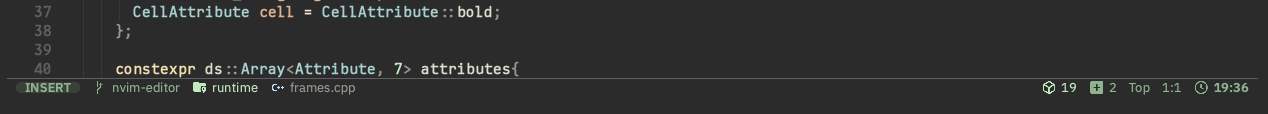
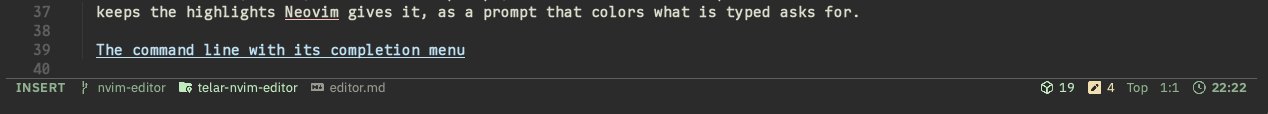
Draw the native status line flat, without pills
A status line is one cell high, so a shape around a word leaves no room
above or below its letters. The sections a statusline draws on
backgrounds of their own now keep only their color: each word takes
whichever of its color and its section's background stands apart from
the line's, and the mode's name is written in the theme's color for the
mode.

diff --git a/src/gui/ui/app/panes/nvim/NvimStatusLine.qml b/src/gui/ui/app/panes/nvim/NvimStatusLine.qml
@@ -5,15 +5,16 @@ import Telar.Gui
 
 // The status line of the whole editor, drawn by telar over the row Neovim draws it on: what the
 // configuration puts there, lualine's or any other, in telar's type and on the editor's own
-// surface. The cells on a background of their own become pills of that color, as lualine's
-// sections are; the icons are drawn with the bundled symbols; the two sides keep the gap Neovim
-// put between them. A line that opens with the name of the mode Neovim is in shows it as the
-// mode's pill, in the theme's color for that mode, unless the line gives it a color of its own.
+// surface. The line is flat: a row of one cell has no room for a shape around a word, so the
+// sections a statusline draws on backgrounds of their own keep only their color and are parted
+// by space; the icons are drawn with the bundled symbols, and the two sides keep the gap Neovim
+// put between them. A line that opens with the name of the mode Neovim is in writes it in the
+// theme's color for that mode.
 Item {
     id: root
 
     // {visible, row, tokens [{text, color, bold, italic, icon, gap}], left and right
-    // [{first, count, background, pill}]}.
+    // [{first, count}]}.
     required property var status
     // Neovim's name for its mode: "normal", "insert", "visual", "cmdline_normal"...
     property string mode
@@ -22,7 +23,9 @@ Item {
     required property real cellHeight
     property real ratio: 1
     readonly property var tokens: status.tokens ?? []
-    readonly property real gap: 6 * ratio
+    // Between the line's edges and its words, and between two of its sections.
+    readonly property real margin: 10 * ratio
+    readonly property real sectionGap: 14 * ratio
     // The first letter of the names statuslines give each mode, and the theme's color for it.
     readonly property var family: ({
             "normal": ["N", colors.accent],
@@ -37,13 +40,13 @@ Item {
             "terminal": ["T", colors.teal]
         })
     readonly property var modeFamily: family[mode] ?? null
-    // The token that names the mode: the line's first, in capitals, of the mode's letter, on the
-    // line's own background; -1 for none.
+    // The token that names the mode: the line's first, in capitals, of the mode's letter; -1 for
+    // none.
     readonly property int modeToken: {
         const first = (status.left ?? [])[0];
         const token = tokens[0];
 
-        if (!modeFamily || !first || first.pill || first.first !== 0 || !token || token.icon)
+        if (!modeFamily || !first || first.first !== 0 || !token || token.icon)
             return -1;
         return /^[A-Z][A-Z-]{1,11}$/.test(token.text) && token.text[0] === modeFamily[0] ? 0 : -1;
     }
@@ -66,89 +69,60 @@ Item {
         color: root.colors.border
     }
 
-    component Piece: Item {
+    component Piece: Row {
         id: piece
 
         required property var record
-        readonly property bool pill: record.pill ?? false
-        readonly property real padding: (pill ? 9 : 3) * root.ratio
 
-        width: words.implicitWidth + 2 * padding
         height: root.height
 
-        NativeRoundedRectangle {
-            visible: piece.pill
-            y: Math.round((root.height - height) / 2)
-            width: parent.width
-            height: Math.min(root.height - 8 * root.ratio, Math.round(root.typography.small * 1.85))
-            radius: ChromeStyle.controlRadius * root.ratio
-            color: (piece.record.background ?? "").length > 0 ? piece.record.background : Qt.alpha(root.colors.text, ChromeStyle.selectionAlpha)
-        }
+        Repeater {
+            // A count, so a word that changes keeps its item and only its text is set again.
+            model: piece.record.count ?? 0
 
-        Row {
-            id: words
-            x: piece.padding
-            height: root.height
+            delegate: Item {
+                id: word
 
-            Repeater {
-                // A count, so a word that changes keeps its item and only its text is set again.
-                model: piece.record.count ?? 0
+                required property int index
+                readonly property int at: piece.record.first + index
+                readonly property var token: root.tokens[at] ?? ({})
+                readonly property bool icon: token.icon ?? false
+                readonly property bool moded: at === root.modeToken
+                readonly property color tint: moded ? root.modeFamily[1] : (token.color ?? "").length > 0 ? token.color : root.colors.text
+                // An icon goes with the word after it; words Neovim parted by more than one
+                // blank cell are parted more.
+                readonly property bool afterIcon: index > 0 && (root.tokens[at - 1]?.icon ?? false)
+                readonly property int blanks: index > 0 ? token.gap ?? 0 : 0
+                readonly property real lead: (blanks === 0 ? 0 : afterIcon ? 5 : blanks === 1 ? 5 : 12) * root.ratio
 
-                delegate: Item {
-                    id: word
+                width: lead + (icon ? glyph.width : label.implicitWidth)
+                height: root.height
 
-                    required property int index
-                    readonly property int at: piece.record.first + index
-                    readonly property var token: root.tokens[at] ?? ({})
-                    readonly property bool icon: token.icon ?? false
-                    readonly property bool moded: at === root.modeToken
-                    readonly property color tint: moded ? root.modeFamily[1] : (token.color ?? "").length > 0 ? token.color : root.colors.text
-                    // An icon goes with the word after it; words Neovim parted by more than one
-                    // blank cell are parted more.
-                    readonly property bool afterIcon: index > 0 && (root.tokens[at - 1]?.icon ?? false)
-                    readonly property int blanks: index > 0 ? token.gap ?? 0 : 0
-                    readonly property real lead: (blanks === 0 ? 0 : afterIcon ? 5 : blanks === 1 ? 5 : 12) * root.ratio
-                    readonly property real inset: moded ? 9 * root.ratio : 0
+                ChromeIcon {
+                    id: glyph
+                    visible: word.icon
+                    x: word.lead
+                    y: Math.round((root.height - height) / 2)
+                    width: visible ? Math.round(root.typography.small * 1.15) : 0
+                    height: width
+                    glyph: word.icon ? word.token.text : ""
+                    pixelSize: width
+                    color: word.tint
+                }
 
-                    width: lead + (icon ? glyph.width : label.implicitWidth + 2 * inset)
+                Text {
+                    id: label
+                    visible: !word.icon
+                    x: word.lead
                     height: root.height
-
-                    // The mode's pill, when the line gives the mode no color of its own.
-                    NativeRoundedRectangle {
-                        visible: word.moded
-                        x: word.lead
-                        y: Math.round((root.height - height) / 2)
-                        width: label.implicitWidth + 2 * word.inset
-                        height: Math.min(root.height - 8 * root.ratio, Math.round(root.typography.small * 1.85))
-                        radius: ChromeStyle.controlRadius * root.ratio
-                        color: Qt.alpha(word.tint, 0.16)
-                    }
-
-                    ChromeIcon {
-                        id: glyph
-                        visible: word.icon
-                        x: word.lead
-                        y: Math.round((root.height - height) / 2)
-                        width: visible ? Math.round(root.typography.small * 1.15) : 0
-                        height: width
-                        glyph: word.icon ? word.token.text : ""
-                        pixelSize: width
-                        color: word.tint
-                    }
-
-                    Text {
-                        id: label
-                        visible: !word.icon
-                        x: word.lead + word.inset
-                        height: root.height
-                        verticalAlignment: Text.AlignVCenter
-                        text: word.icon ? "" : word.token.text ?? ""
-                        color: word.tint
-                        font.pixelSize: root.typography.small
-                        font.bold: word.moded || (word.token.bold ?? false)
-                        font.italic: word.token.italic ?? false
-                        textFormat: Text.PlainText
-                    }
+                    verticalAlignment: Text.AlignVCenter
+                    text: word.icon ? "" : word.token.text ?? ""
+                    color: word.tint
+                    font.pixelSize: root.typography.small
+                    font.weight: word.moded ? Font.DemiBold : (word.token.bold ?? false) ? Font.Bold : Font.Normal
+                    font.italic: word.token.italic ?? false
+                    font.letterSpacing: word.moded ? 0.6 * root.ratio : 0
+                    textFormat: Text.PlainText
                 }
             }
         }
@@ -158,9 +132,9 @@ Item {
     Row {
         id: trailing
         objectName: "editorStatusRight"
-        x: parent.width - width - root.gap
+        x: parent.width - width - root.margin
         height: root.height
-        spacing: root.gap
+        spacing: root.sectionGap
 
         Repeater {
             model: (root.status.right ?? []).length
@@ -174,15 +148,15 @@ Item {
 
     // The first side, cut where it would run under the other.
     Item {
-        x: root.gap
-        width: Math.max(0, trailing.x - x - root.gap)
+        x: root.margin
+        width: Math.max(0, trailing.x - x - root.sectionGap)
         height: root.height
         clip: true
 
         Row {
             objectName: "editorStatusLeft"
             height: root.height
-            spacing: root.gap
+            spacing: root.sectionGap
 
             Repeater {
                 model: (root.status.left ?? []).length

diff --git a/src/gui/tests/quick_test.cpp b/src/gui/tests/quick_test.cpp
@@ -1170,9 +1170,9 @@ return {api_version = 2, client = {
       QVERIFY(view->separators().first().toMap().value(QStringLiteral("vertical")).toBool());
       shoot(QStringLiteral("editor-split"));
 
-      // The status line of the whole editor is drawn natively over its row: the cells on a
-      // background of their own are pills of that color, an icon of the Nerd Fonts is drawn as
-      // one, and the two sides keep the gap Neovim put between them.
+      // The status line of the whole editor is drawn natively over its row, flat: the cells on a
+      // background of their own are a section of their own, an icon of the Nerd Fonts is drawn
+      // as one, and the two sides keep the gap Neovim put between them.
       view->send(QStringLiteral("<Cmd>lua vim.o.statusline = '%#Visual# NORMAL %#StatusLine# ' .. vim.fn.nr2char(0xe0a0) .. ' main %=%#PmenuSel# %l:%c '; vim.o.laststatus = 3<CR>"));
       const auto status = [&] {
         return view->statusLine();
@@ -1194,20 +1194,20 @@ return {api_version = 2, client = {
       }
 
       QVERIFY2(drawn.contains(QStringLiteral(" main ")), qPrintable(drawn));
-      QVERIFY(piece(QStringLiteral("left"), 0).value(QStringLiteral("pill")).toBool());
-      QVERIFY(!piece(QStringLiteral("left"), 1).value(QStringLiteral("pill")).toBool());
+      QCOMPARE(status().value(QStringLiteral("left")).toList().size(), 2);
+      QCOMPARE(piece(QStringLiteral("left"), 0).value(QStringLiteral("count")).toInt(), 1);
       QVERIFY(token(piece(QStringLiteral("left"), 1).value(QStringLiteral("first")).toInt()).value(QStringLiteral("icon")).toBool());
-      QVERIFY(piece(QStringLiteral("right"), 0).value(QStringLiteral("pill")).toBool());
       QVERIFY(QRegularExpression{QStringLiteral("^\\d+:\\d+$")}.match(token(piece(QStringLiteral("right"), 0).value(QStringLiteral("first")).toInt()).value(QStringLiteral("text")).toString()).hasMatch());
       shoot(QStringLiteral("editor-status"));
 
-      // A line that gives the mode no color of its own shows it as the mode's pill.
+      // A line that opens with the name of the mode writes it in the theme's color for the mode,
+      // and one that opens with something else names no mode.
       const auto lines = test::visualItems(*window_->contentItem(), QStringLiteral("editorStatusLine"));
 
       QCOMPARE(lines.size(), std::size_t{1});
-      QCOMPARE(lines.front()->property("modeToken").toInt(), -1);
-      view->send(QStringLiteral("<Cmd>lua vim.o.statusline = ' NORMAL  main %= %l:%c '<CR>"));
       QTRY_COMPARE_WITH_TIMEOUT(lines.front()->property("modeToken").toInt(), 0, runtime_wait_ms);
+      view->send(QStringLiteral("<Cmd>lua vim.o.statusline = ' main %= NORMAL %l:%c '<CR>"));
+      QTRY_COMPARE_WITH_TIMEOUT(lines.front()->property("modeToken").toInt(), -1, runtime_wait_ms);
       view->send(QStringLiteral("<Cmd>set laststatus& statusline&<CR>"));
       QTRY_VERIFY_WITH_TIMEOUT(!status().value(QStringLiteral("visible")).toBool(), runtime_wait_ms);
 

diff --git a/src/gui/features/nvim/nvim.cpp b/src/gui/features/nvim/nvim.cpp
@@ -340,6 +340,35 @@ namespace telar::gui::features::nvim {
       return (style.flags & std::to_underlying(CellAttribute::inverse)) != 0 ? style.foreground : style.background;
     }
 
+    // How far apart two colors are, as the squared distance of their channels.
+    std::uint32_t apart(const CellColor& one, const CellColor& other) noexcept {
+      std::uint32_t distance = 0;
+
+      for (std::size_t channel = 0; channel < one.channels.size(); ++channel) {
+        const auto step = static_cast<int>(one.channels[channel]) - static_cast<int>(other.channels[channel]);
+
+        distance += static_cast<std::uint32_t>(step * step);
+      }
+
+      return distance;
+    }
+
+    // The color a word keeps on the line's own background: its own, or the background it was
+    // drawn on when that stands apart from the line's more. Colors Neovim leaves to the window
+    // are not compared, and the word keeps its own.
+    CellColor inkOf(const CellStyle& style, const ds::Option<CellColor>& own, const CellColor& base) noexcept {
+      const auto& ink = (style.flags & std::to_underlying(CellAttribute::inverse)) != 0 ? style.background : style.foreground;
+      const auto known = [](const CellColor& color) {
+        return color.kind == CellColor::Kind::rgb;
+      };
+
+      if (!own || !known(ink) || !known(*own) || !known(base)) {
+        return ink;
+      }
+
+      return apart(*own, base) > apart(ink, base) ? *own : ink;
+    }
+
     bool blank(const CellValue& cell) noexcept {
       const auto text = cell.utf8();
 
@@ -367,7 +396,7 @@ namespace telar::gui::features::nvim {
 
     // Puts a cell in the last piece: with the word before it when nothing parts them and they
     // share a style, as a word of its own otherwise, and an icon always on its own.
-    void addWord(StatusLine& line, const CellValue& cell, std::uint8_t gap) {
+    void addWord(StatusLine& line, const CellValue& cell, std::uint8_t gap, const CellColor& base) {
       auto& piece = line.pieces.backMut();
       const auto text = cell.utf8();
       const bool icon = symbol(text);
@@ -379,7 +408,7 @@ namespace telar::gui::features::nvim {
         return;
       }
 
-      line.tokens.push({.text = {.offset = offset, .size = static_cast<std::uint32_t>(text.size())}, .style = cell.style, .icon = icon, .gap = gap});
+      line.tokens.push({.text = {.offset = offset, .size = static_cast<std::uint32_t>(text.size())}, .style = cell.style, .ink = inkOf(cell.style, piece.background, base), .icon = icon, .gap = gap});
       ++piece.count;
     }
 
@@ -451,7 +480,7 @@ namespace telar::gui::features::nvim {
         gap = 0;
       }
 
-      addWord(line, cell, gap);
+      addWord(line, cell, gap, base);
       gap = 0;
     }
   }

diff --git a/src/gui/features/nvim/tests/nvim_test.cpp b/src/gui/features/nvim/tests/nvim_test.cpp
@@ -320,6 +320,12 @@ namespace {
     check(line.tokens[3].icon && tokenText(line, 4) == "src/" && line.tokens[4].gap == 2 && tokenText(line, 5) == "main.cpp" && line.tokens[5].gap == 0, "words in two styles side by side stay two, with no gap between");
     check(line.pieces[3].right && line.pieces[3].background && tokenText(line, line.pieces[3].first) == "1:1", "what follows the gap is the right side");
 
+    // The line is drawn flat: a word keeps whichever of its color and its background stands
+    // apart from the line's.
+    check(line.tokens[0].ink == mode.background, "dark letters on the mode's color are written in the mode's color");
+    check(line.tokens[2].ink == branch.foreground, "light letters on a background near the line's keep their own color");
+    check(line.tokens[4].ink == line_style.foreground, "and a word on the line's own background keeps its own");
+
     // Neovim's own status line reverses its colors: what it is drawn on is its foreground.
     const CellStyle reversed{.flags = std::to_underlying(CellAttribute::inverse), .foreground = rgb(40, 40, 40), .background = rgb(220, 220, 220)};
 
@@ -328,6 +334,16 @@ namespace {
     readStatusLine(row, line);
     check(line.pieces.size() == 2 && !line.pieces[0].background && !line.pieces[1].background && line.pieces[1].right, "a line all on one background is words on the line's own");
     check(tokenText(line, 0) == "file.txt" && tokenText(line, 1) == "[+]" && line.tokens[1].gap == 1 && tokenText(line, line.pieces[1].first) == "10,1");
+    check(line.tokens[0].ink == reversed.background, "a reversed word is written in its background");
+
+    // A color Neovim leaves to the window cannot be compared, and the word keeps its own.
+    const CellStyle unset{.background = rgb(130, 170, 255)};
+
+    row.clear();
+    paint(row, "                ", line_style);
+    paint(row, " VISUAL ", unset);
+    readStatusLine(row, line);
+    check(line.tokens.size() == 1 && line.tokens[0].ink == CellColor{}, "a word in the window's own color keeps it");
   }
 
   // A frame says on which row of the default grid the status line of the whole editor is.

diff --git a/src/gui/ui/app/panes/nvim/nvim_item.cpp b/src/gui/ui/app/panes/nvim/nvim_item.cpp
@@ -1041,7 +1041,7 @@ namespace telar::gui::qt {
 
       tokens.append(QVariantMap{
           {QStringLiteral("text"), shown(token.text.of(text))},
-          {QStringLiteral("color"), named(has(CellAttribute::inverse) ? token.style.background : token.style.foreground)},
+          {QStringLiteral("color"), named(token.ink)},
           {QStringLiteral("bold"), has(CellAttribute::bold)},
           {QStringLiteral("italic"), has(CellAttribute::italic)},
           {QStringLiteral("icon"), token.icon},
@@ -1054,8 +1054,6 @@ namespace telar::gui::qt {
           .append(QVariantMap{
               {QStringLiteral("first"), static_cast<int>(piece.first)},
               {QStringLiteral("count"), static_cast<int>(piece.count)},
-              {QStringLiteral("background"), piece.background ? named(*piece.background) : QString{}},
-              {QStringLiteral("pill"), piece.background.hasValue()},
           });
     }
 

diff --git a/src/gui/ui/app/panes/nvim/nvim_item.hpp b/src/gui/ui/app/panes/nvim/nvim_item.hpp
@@ -152,7 +152,7 @@ namespace telar::gui::qt {
     }
 
     // The status line of the whole editor, drawn natively over its row: {visible, row, tokens
-    // [{text, color, bold, italic, icon, gap}], left and right [{first, count, background, pill}]}.
+    // [{text, color, bold, italic, icon, gap}], left and right [{first, count}]}.
     [[nodiscard]] QVariantMap statusLine() const {
       return status_line_;
     }

diff --git a/docs/editor.md b/docs/editor.md
@@ -45,10 +45,10 @@ Neovim leaves these to its UI, and the window draws each as one of its own surfa
 
   ![The completion menu, each entry with its kind's icon](images/telar-editor-completion.png)
 - The status line of the whole editor, while `laststatus` is 3, as lualine and telar's own
-  configuration set it: what the configuration puts there, drawn over its row in telar's type.
-  Its sections on a background of their own are pills of that color, their icons are drawn
-  with the bundled symbols, and a line that opens with the name of the mode shows it in a pill
-  of the theme's color for that mode.
+  configuration set it: what the configuration puts there, drawn over its row in telar's type
+  and flat, on the editor's own background. Its sections on a background of their own keep
+  their color and are parted by space, their icons are drawn with the bundled symbols, and a
+  line that opens with the name of the mode writes it in the theme's color for that mode.
 
   ![lualine's status line, drawn natively](images/telar-editor-status.png)
 
